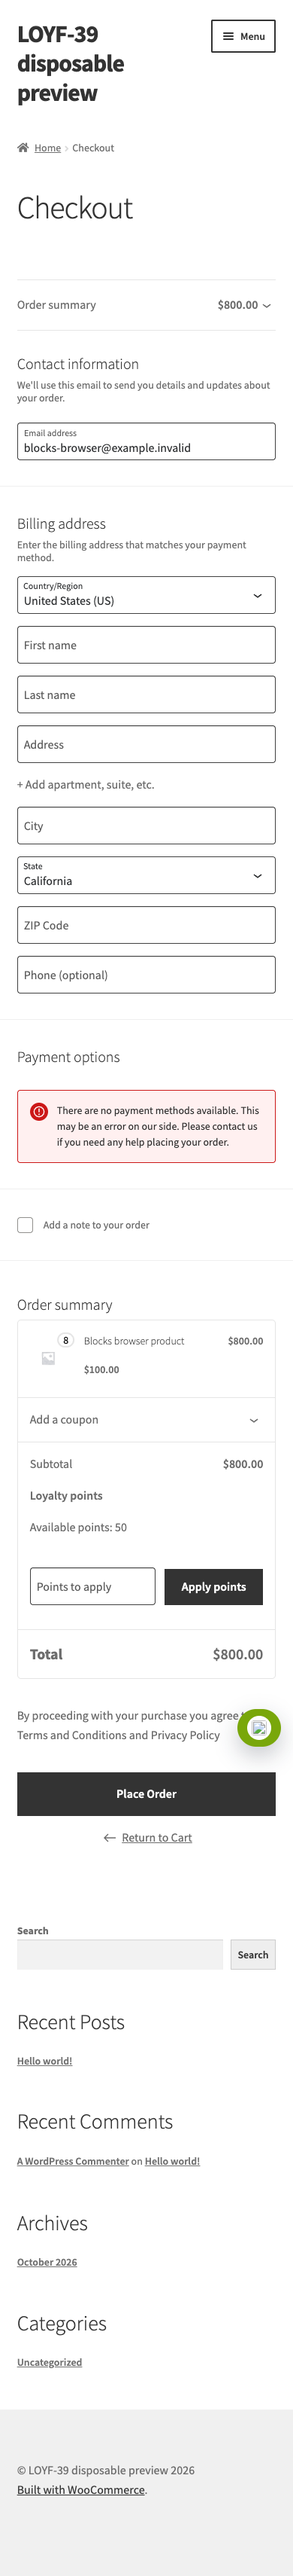
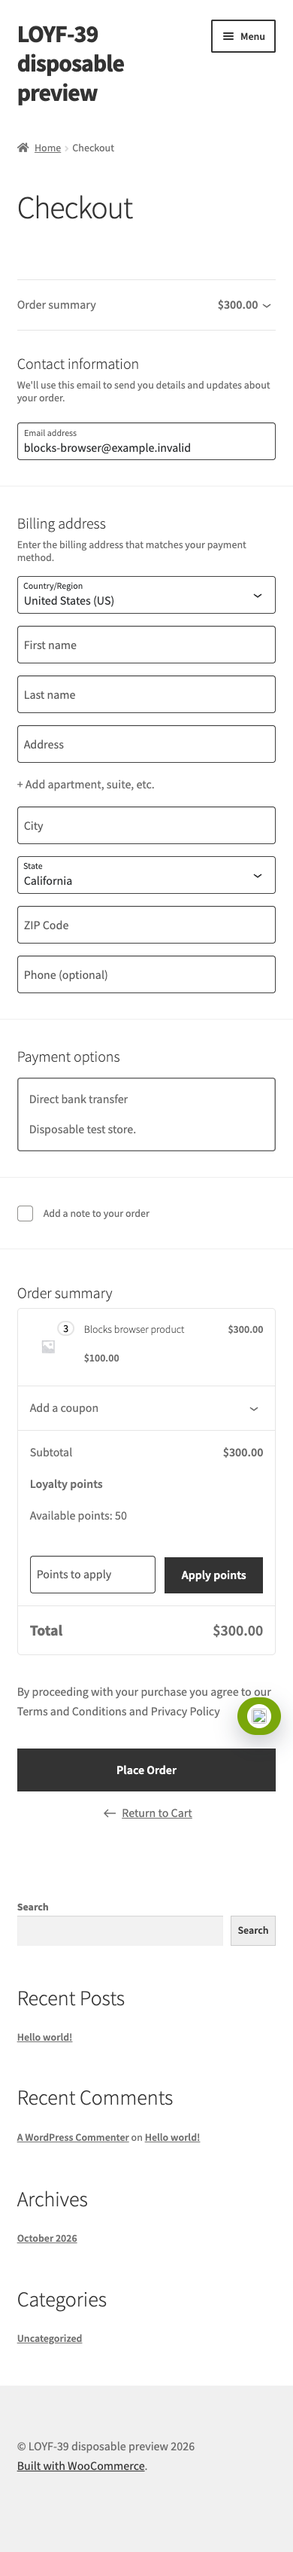
LOYF-39: refresh final native wrapper visual evidence

diff --git a/docs/evidence/loyf-39/README.md b/docs/evidence/loyf-39/README.md
@@ -1,6 +1,6 @@
 # LOYF-39 native presentation
 
-Real disposable WordPress6.8.3 / WooCommerce9.9.5 / CPT screenshots. No installed Human site or customer data is used. `before-*` is admitted base `dd0598ecb0c84dcccb35c137ebd8ce20f70d24c2`; `twentytwentyfive-*` (1.3) and `storefront-*` (4.6.2) use the product changes introduced in `5053605` (the full candidate and exact CI are bound on the PR). Viewports are desktop1280 and mobile390. Different totals reflect repeated synthetic add-to-cart setup, not a conversion change.
+Real disposable WordPress6.8.3 / WooCommerce9.9.5 / CPT screenshots. No installed Human site or customer data is used. `before-*` is admitted base `dd0598ecb0c84dcccb35c137ebd8ce20f70d24c2`; `twentytwentyfive-*` (1.3) and `storefront-*` (4.6.2) use the final native-wrapper product tree at `9fa282a8fe5438d0564d412537cc2209f5dcd7c8` (the full candidate and exact CI are bound on the PR). `woo1112-*` additionally shows native WordPress7.0/Woo11.1.2 with Twenty Twenty-Five1.3. Viewports are desktop1280 and mobile390. Different totals reflect repeated synthetic add-to-cart setup, not a conversion change.
 
 Cart keeps Loyalty in the native discounts/totals flow between Subtotal and Total, before Proceed to Checkout. Checkout keeps it inside Order summary before Total and before the mobile Place Order section. Coupon fields, order fields and CTAs keep their own native structure. The existing official DiscountsMeta Slot remains the mount; no merchant page content is rewritten.
 
